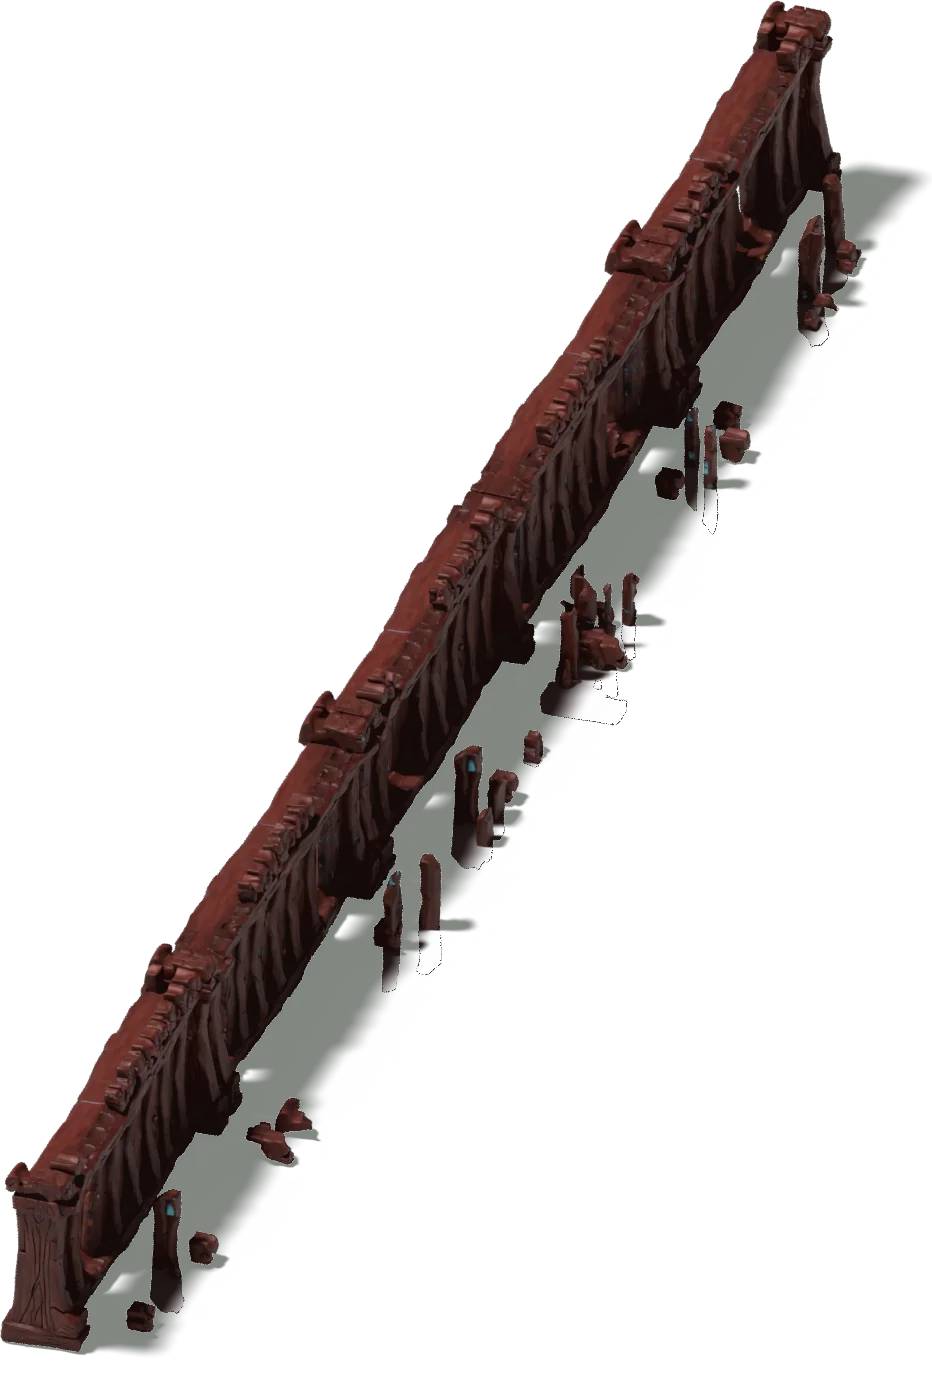
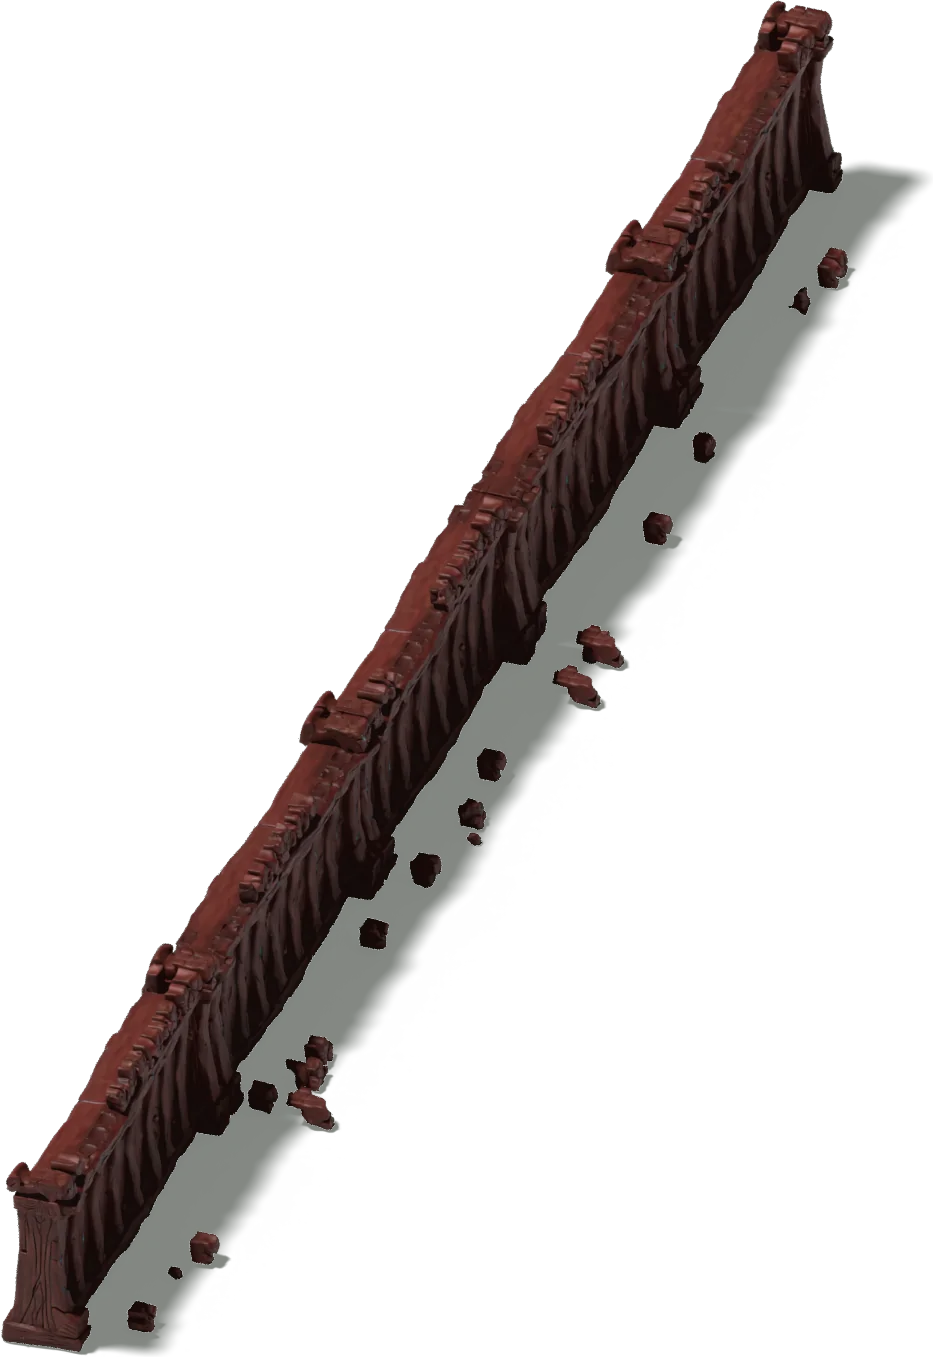
art: splintered wall damage, base never opens (TB-254)

Changed region(s): [[0.0, 0.0929, 0.9646, 1.0], [0.7779, 0.2167, 0.809, 0.2476]]

diff --git a/src/data/presentation.ts b/src/data/presentation.ts
@@ -133,10 +133,10 @@ export const GROUND = {
 
 /** The wall's look per tier (TB-209): image set (rendered from the segmented Tripo models, one image per damage stage), field placement, the field y of the rendered breaches, and the palette tokens of its flying chunks. */
 export const WALL_ART = [
-  { key: 'wall0', x: -167.0, y: 106.4, w: 534.8, h: 766.4, breaches: [623, 548, 450, 350, 234], chunks: ['wallPalisade', 'wallPalisadeDark'] },
-  { key: 'wall1', x: -145.0, y: 102.2, w: 511.9, h: 744.8, breaches: [605, 533, 440, 343, 232], chunks: ['wallBattle', 'wallBattleDark'] },
-  { key: 'wall2', x: -123.0, y: 120.0, w: 478.1, h: 696.6, breaches: [585, 516, 427, 336, 229], chunks: ['wallStone', 'wallStoneDark'] },
-  { key: 'wall3', x: -72.8, y: 100.3, w: 436.9, h: 647.3, breaches: [609, 535, 475, 396, 316, 223], chunks: ['wallHeart', 'wallHeartDark'] },
+  { key: 'wall0', x: -167.0, y: 106.4, w: 536.7, h: 766.4, breaches: [623, 548, 450, 350, 234], chunks: ['wallPalisade', 'wallPalisadeDark'] },
+  { key: 'wall1', x: -145.5, y: 102.2, w: 512.3, h: 744.8, breaches: [605, 533, 440, 343, 232], chunks: ['wallBattle', 'wallBattleDark'] },
+  { key: 'wall2', x: -123.0, y: 120.0, w: 478.1, h: 695.6, breaches: [585, 516, 427, 336, 229], chunks: ['wallStone', 'wallStoneDark'] },
+  { key: 'wall3', x: -73.3, y: 100.3, w: 437.3, h: 636.1, breaches: [609, 535, 475, 396, 316, 223], chunks: ['wallHeart', 'wallHeartDark'] },
 ] as const;
 
 /** The wall's visible damage (TB-238, TB-209). stages: the health fractions below which the next rendered stage shows. Debris on a stage change: chunks per breach, speed, life, size, spin, gravity. Dust: puffs per breach, per blow, speed, life, radius, growth/s, alpha.

diff --git a/docs/BACKLOG.md b/docs/BACKLOG.md
@@ -300,3 +300,5 @@ Ids are stable (`TB-###`). Status: `todo` · `doing` · `review` · `done <hash>
 | TB-249 | Achievements, system: earned ids in meta save (schema bump and migration approved 12 Nov), event-driven checks in src/sim, toast, DOM panel with hidden entries; ids map to Steam later | sim, ui | claude | open (after TB-248) |
 | TB-250 | Achievements, rewards: cosmetic unlocks only (skins, camp decor), no stats so balance is unaffected; needs director art approval per cosmetic | art | claude | open (after TB-249) |
 | TB-252 | Visuals, wall light: re-render all wall tiers from the Tripo models in Cycles with an upper-left sun and a shadow-catcher ground, so each wall casts a stake-shaped soft shadow baked into its art; drop the drawn crack strokes on the barricade meter (the bar art carries the damage) | art, ui | claude | done |
+| TB-254 | Wall damage, splintered never open (director 12 Nov): re-render stages 1-3 so only upper parts break, ground stakes lean but stay, long rails never lie as a ghost second fence; every orc hits timber | art | claude | done |
+| TB-255 | Orc march gait (director 12 Nov): walks play 3-5x the authored rate; swap to proven jog/run clips (Mixamo or free packs) and retune GAIT.strideR so feet plant | art | claude | todo |

diff --git a/docs/GDD.md b/docs/GDD.md
@@ -160,4 +160,4 @@ All companion damage scales with Kinship (×1.4/rank, TB-184 set F). Kinship als
 | Prestige meta | Heartwood passive only | Heartwood tree (5 nodes); no passive since P-142 | dd09286, 3cc1563 (TB-053, TB-055), TB-142 |
 | Heartwood source | Scaled by wave reached | Only cleared bosses (every 25 waves); a fall pays none | TB-142 |
 | Bow branch | No circle | Wide Volley widens the strike circle | 16e3060 (TB-079) |
-| Barricade line | Straight vertical wall | Slanted wall on `wallX(y)`; rendered damage stages, debris, dust and flames show damage instead of a fade; the wall changes at Seasoned Timber ranks 3, 6, 10 | TB-238, TB-209 |
+| Barricade line | Straight vertical wall | Slanted wall on `wallX(y)`; rendered damage stages (only upper parts break; the base run never opens, TB-254), debris, dust and flames show damage instead of a fade; the wall changes at Seasoned Timber ranks 3, 6, 10 | TB-238, TB-209 |
